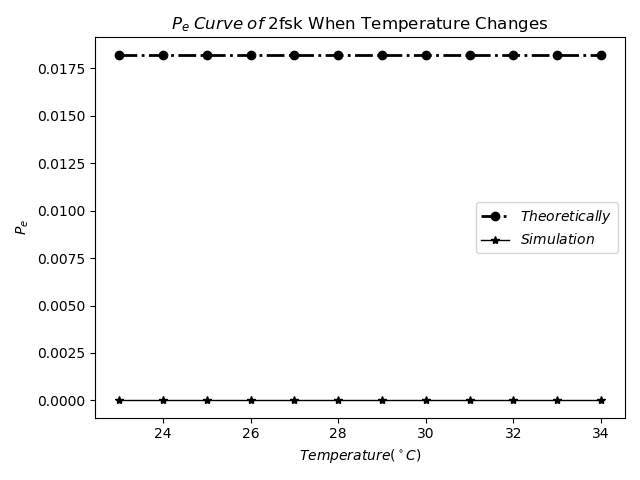
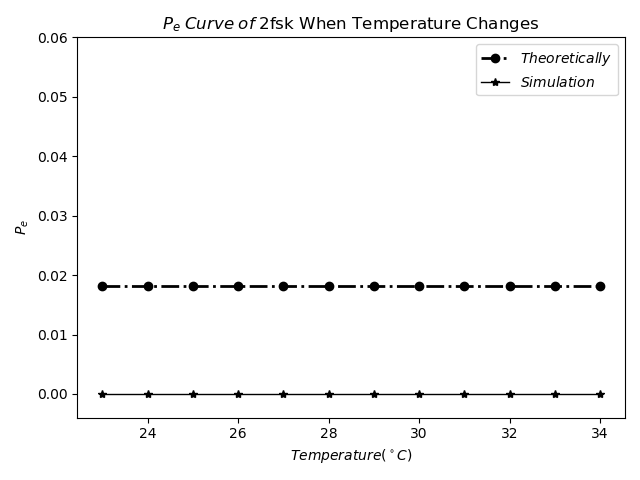
More perfect.

diff --git a/CSModel/CommunicationModel.py b/CSModel/CommunicationModel.py
@@ -70,8 +70,9 @@ class Communication:
 
     def __awgn__(self):
         __k = 1.38e-23  # J/K
-        self.config['PR_n'] = self.config['B'] * self.config['K'] * __k  # TODO 0: Enhance the noise, if necessary.
+        self.config['PR_n'] = self.config['B'] * self.config['K'] * __k
         np.random.seed(self.seed)
+        # TODO 0: Enhance the noise, if necessary, eg. by 2.1937(BFSK) or 2.05(BPSK)
         self.config['noise'] = np.random.randn(len(self.config['modulated'])) * np.sqrt(self.config['PR_n'])
         self.config['received'] = self.config['received'] + self.config['noise']
 
@@ -125,6 +126,7 @@ class Communication:
         else:
             self.demodulated_list = [1 if self.config['demodulated'][sampling_seq[i]] > 0 else 0
                                      for i in range(len(self.random_list))]
+            # TODO 3: Change decision threshold, if  necessary.
         return self.config['demodulated'], self.config['demodulated2']  # Ignore 'demodulated2' if in '2psk'
 
     def calculate_Pe(self):
@@ -194,6 +196,7 @@ def BER_curve(name, unit, x, SNR, Pe, figure_num=1):
     plt.figure(num=figure_num)
     plt.xlabel(r"$Distance(m)$" if unit == 'm' else r"$Temperature(^\circ C)$")
     plt.ylabel(r"$P_e$")
+    # plt.ylim((-0.004, 0.06))
     plt.title(r'$P_e\;Curve\;of\;${name_} When {var} Changes'
               .format(name_=name, var=('Distance' if unit == 'm' else 'Temperature')))
 
